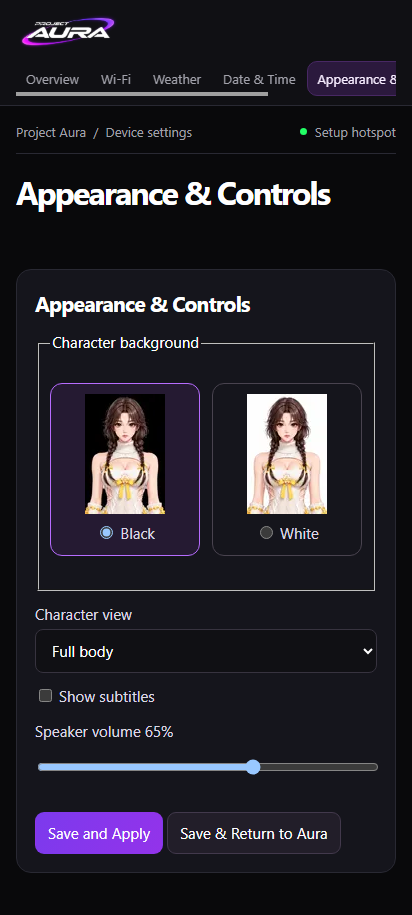
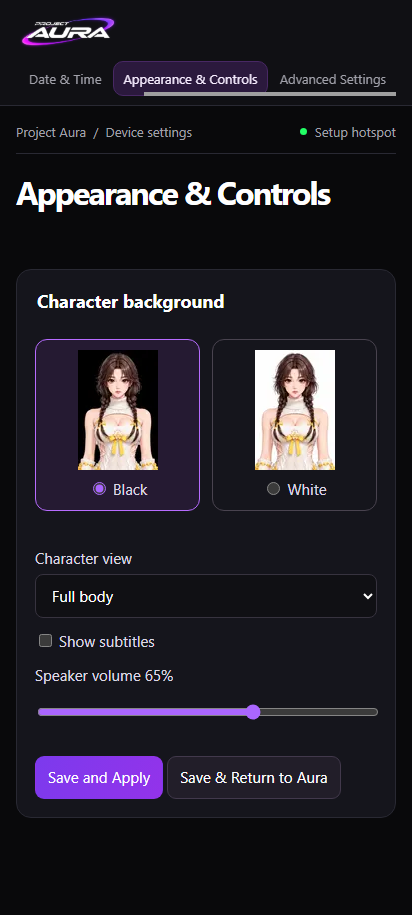
Share speaker control across voice and web and polish mobile selection

diff --git a/main/boards/anime-companion-s3/web/portal.html b/main/boards/anime-companion-s3/web/portal.html
@@ -334,6 +334,9 @@
       .swatch {display:grid;justify-items:center;gap:8px;padding:10px;border:1px solid #49434f;border-radius:12px;cursor:pointer;flex:1}
       .swatch:has(:checked) {border-color:#b76cff;background:#251a32}
       .swatch input {width:auto}
+      #appearance fieldset {border:0;margin:0;padding:0}
+      #appearance legend {font-size:18px;font-weight:650}
+      #appearance input {accent-color:#aa66ff}
     </style>
   </head>
   <body>
@@ -500,7 +503,7 @@
             </div>
           </dl>
         </section>
-        <section id="appearance" hidden class="box"><h2>Appearance &amp; Controls</h2>
+        <section id="appearance" hidden class="box">
[1 lines of base64/hex data omitted]
           <label for="bodyMode">Character view</label><select id="bodyMode"><option value="full">Full body</option><option value="half">Half body</option></select>
           <label><input id="showSubs" type="checkbox"> Show subtitles</label>
@@ -563,6 +566,8 @@
           b.disabled = !state;
         });
         const btn = document.querySelector('[data-page="' + id + '"]');
+        if (btn && matchMedia("(max-width:760px)").matches)
+          btn.parentElement.scrollLeft = btn.offsetLeft - btn.parentElement.offsetLeft - 12;
         $("heading").textContent = btn
           ? btn.textContent.slice(1).trim()
           : id === "done"

diff --git a/main/boards/anime-companion-s3/anime_companion.cc b/main/boards/anime-companion-s3/anime_companion.cc
@@ -157,6 +157,13 @@ public:
         return &codec;
     }
 
+    void SetSpeakerVolume(int volume) {
+        std::lock_guard lock(controls_);
+        if (GetAudioCodec()->output_volume() != volume) {
+            GetAudioCodec()->SetOutputVolume(volume);
+            display_.Volume(volume);
+        }
+    }
     void SnapshotAppearance(cJSON* s) {
         std::lock_guard lock(controls_);
         cJSON_AddBoolToObject(s, "white", white_);
@@ -177,10 +184,7 @@ public:
             return "Could not save display mode";
         SetBackground(cJSON_IsTrue(white));
         SetSubtitles(cJSON_IsTrue(text));
-        if (GetAudioCodec()->output_volume() != volume->valueint) {
-            GetAudioCodec()->SetOutputVolume(volume->valueint);
-            display_.Volume(volume->valueint);
-        }
+        SetSpeakerVolume(volume->valueint);
         return nullptr;
     }
     void ReturnToStation() {
@@ -319,6 +323,9 @@ private:
 DECLARE_BOARD(AnimeCompanion);
 
 namespace aura {
+void SetSpeakerVolume(int volume) {
+    static_cast<AnimeCompanion&>(Board::GetInstance()).SetSpeakerVolume(volume);
+}
 void AddAppearance(cJSON* s) {
     static_cast<AnimeCompanion&>(Board::GetInstance()).SnapshotAppearance(s);
 }

diff --git a/main/mcp_tools.cc b/main/mcp_tools.cc
@@ -8,6 +8,9 @@
 #include <iterator>
 
 #include "application.h"
+#if CONFIG_BOARD_TYPE_ANIME_COMPANION_S3
+#include "appearance.h"
+#endif
 #include "board.h"
 #include "display.h"
 #include "lvgl_image.h"
@@ -174,8 +177,12 @@ void McpServer::AddCommonTools() {
             "`self.get_device_status` tool first and then call this tool.",
             PropertyList({Property("volume", kPropertyTypeInteger, 0, 100)}),
             [&board](const PropertyList& properties) -> ReturnValue {
+#if CONFIG_BOARD_TYPE_ANIME_COMPANION_S3
+                aura::SetSpeakerVolume(properties["volume"].value<int>());
+#else
                 auto codec = board.GetAudioCodec();
                 codec->SetOutputVolume(properties["volume"].value<int>());
+#endif
                 return true;
             });
 

diff --git a/main/boards/anime-companion-s3/appearance.h b/main/boards/anime-companion-s3/appearance.h
@@ -2,6 +2,7 @@
 #include <cJSON.h>
 
 namespace aura {
+void SetSpeakerVolume(int volume);
 void AddAppearance(cJSON* state);
 const char* ApplyAppearance(const cJSON* request);
 void ReturnToStation();
